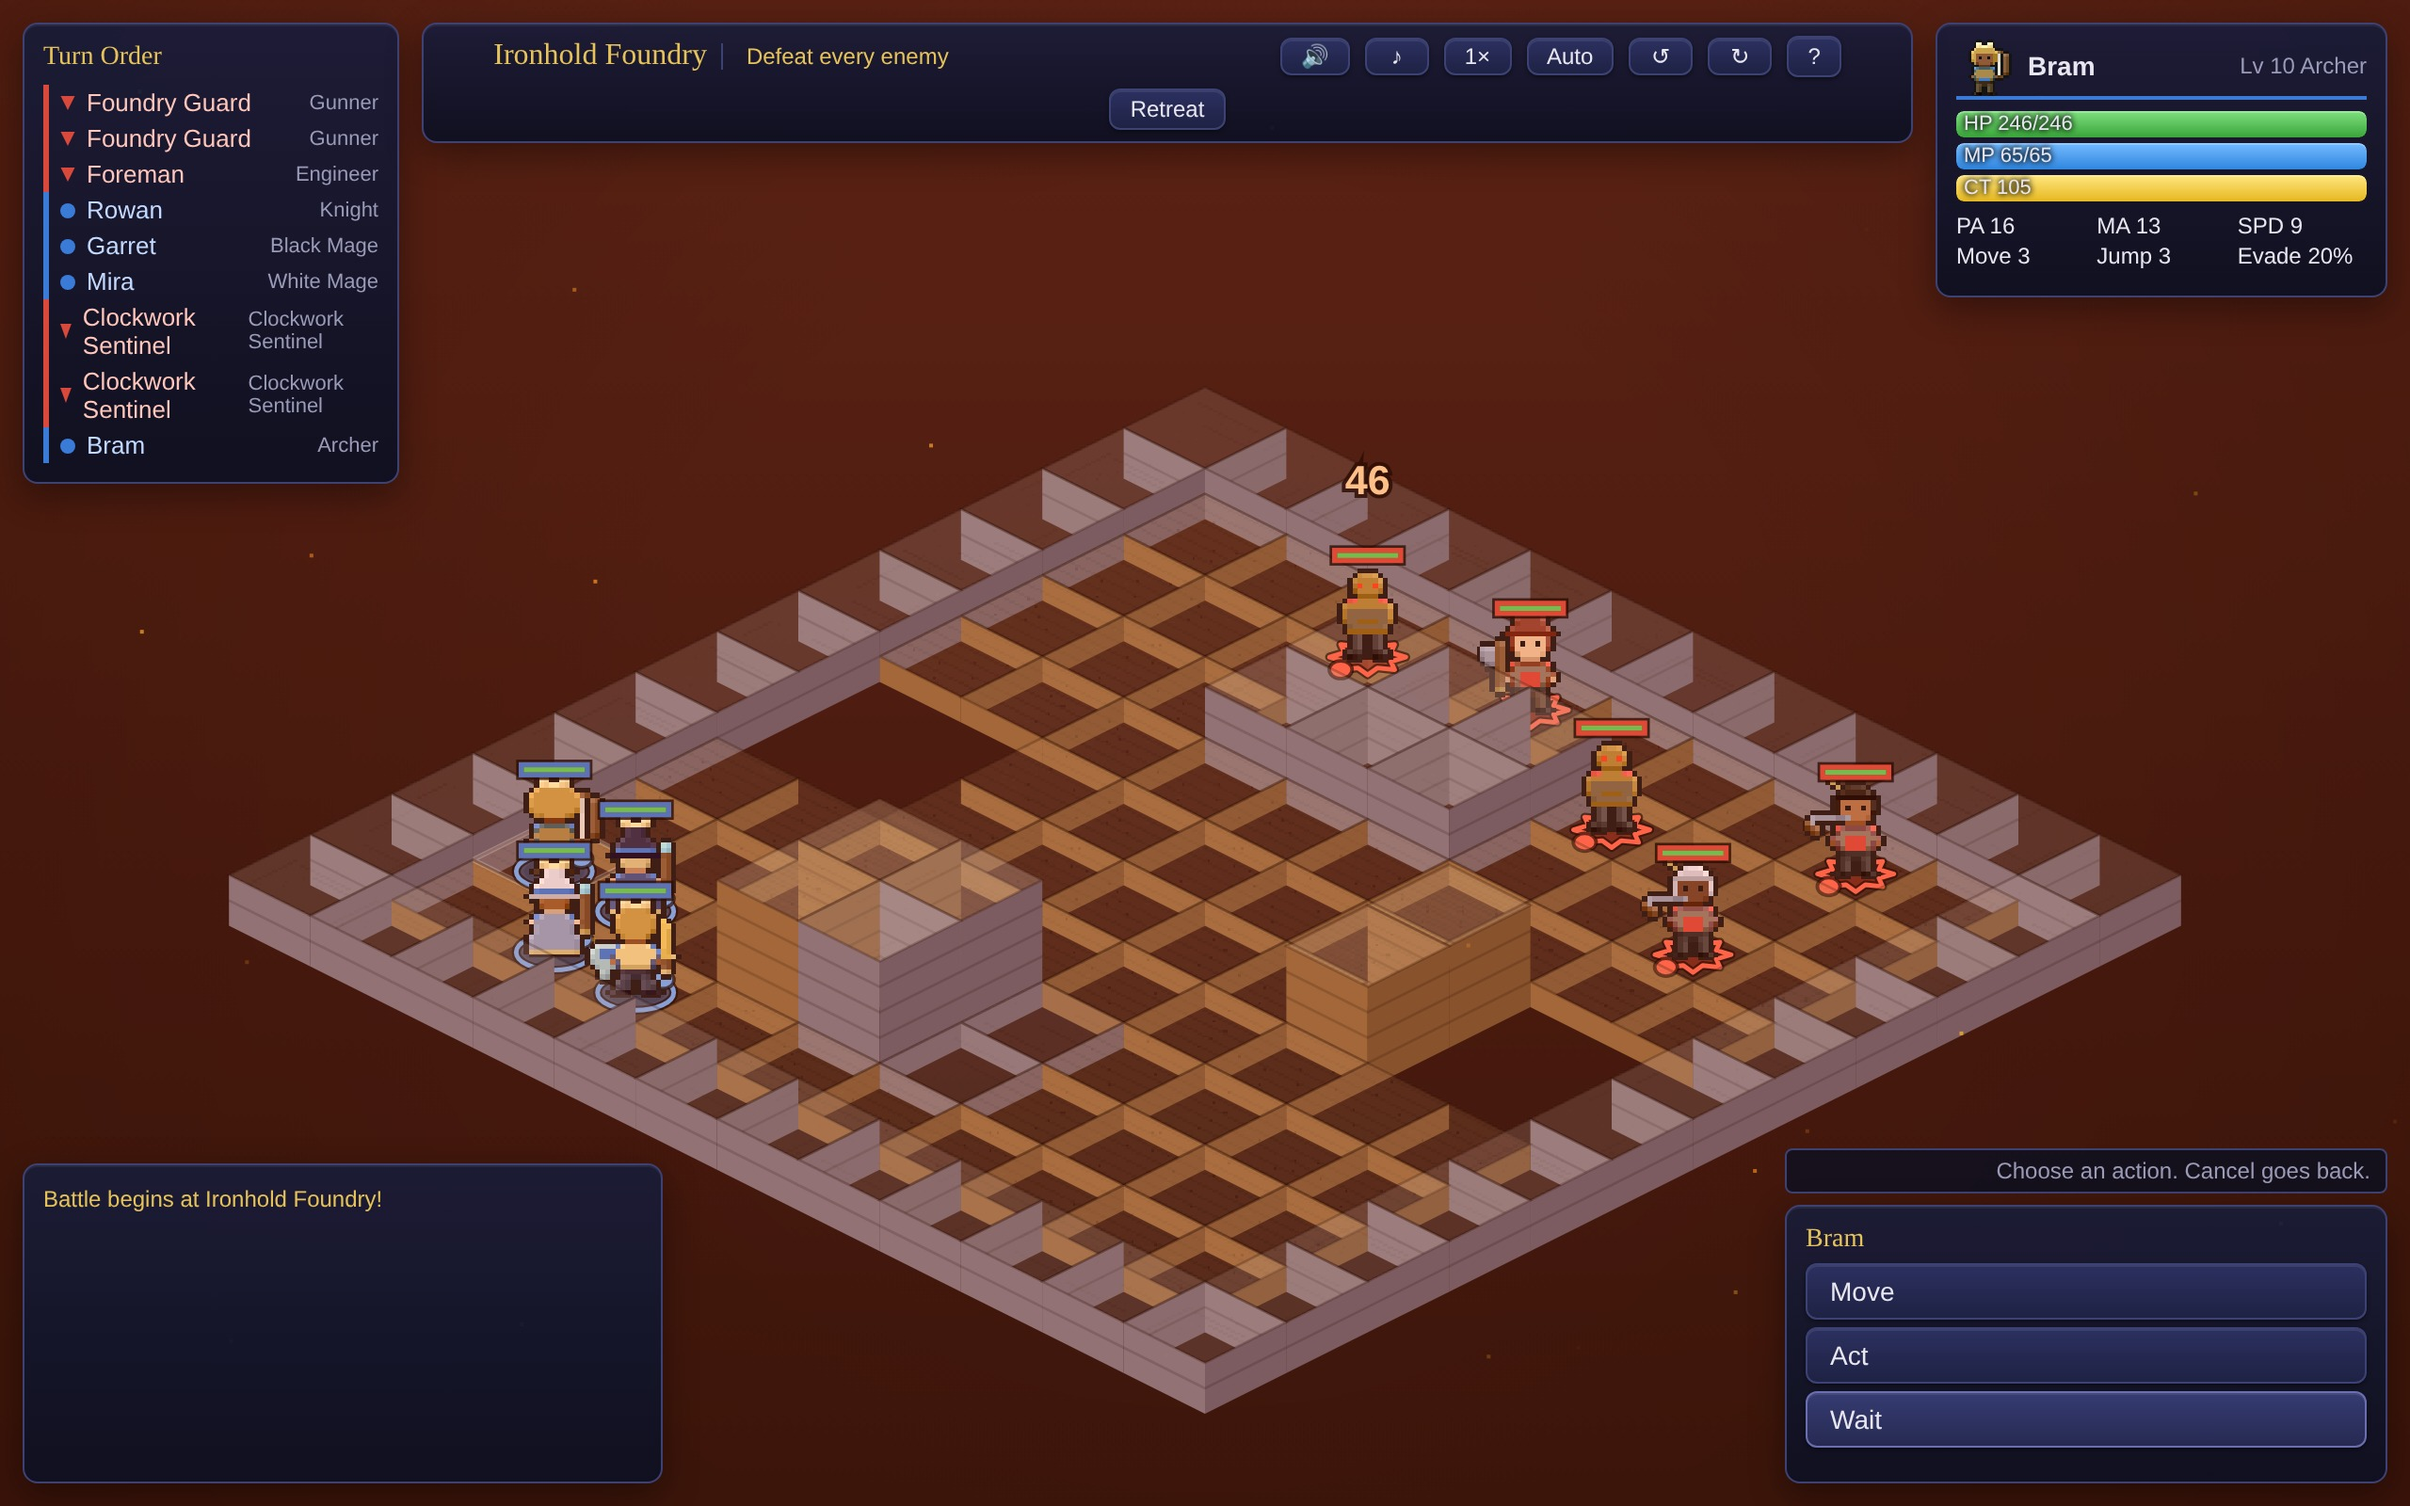
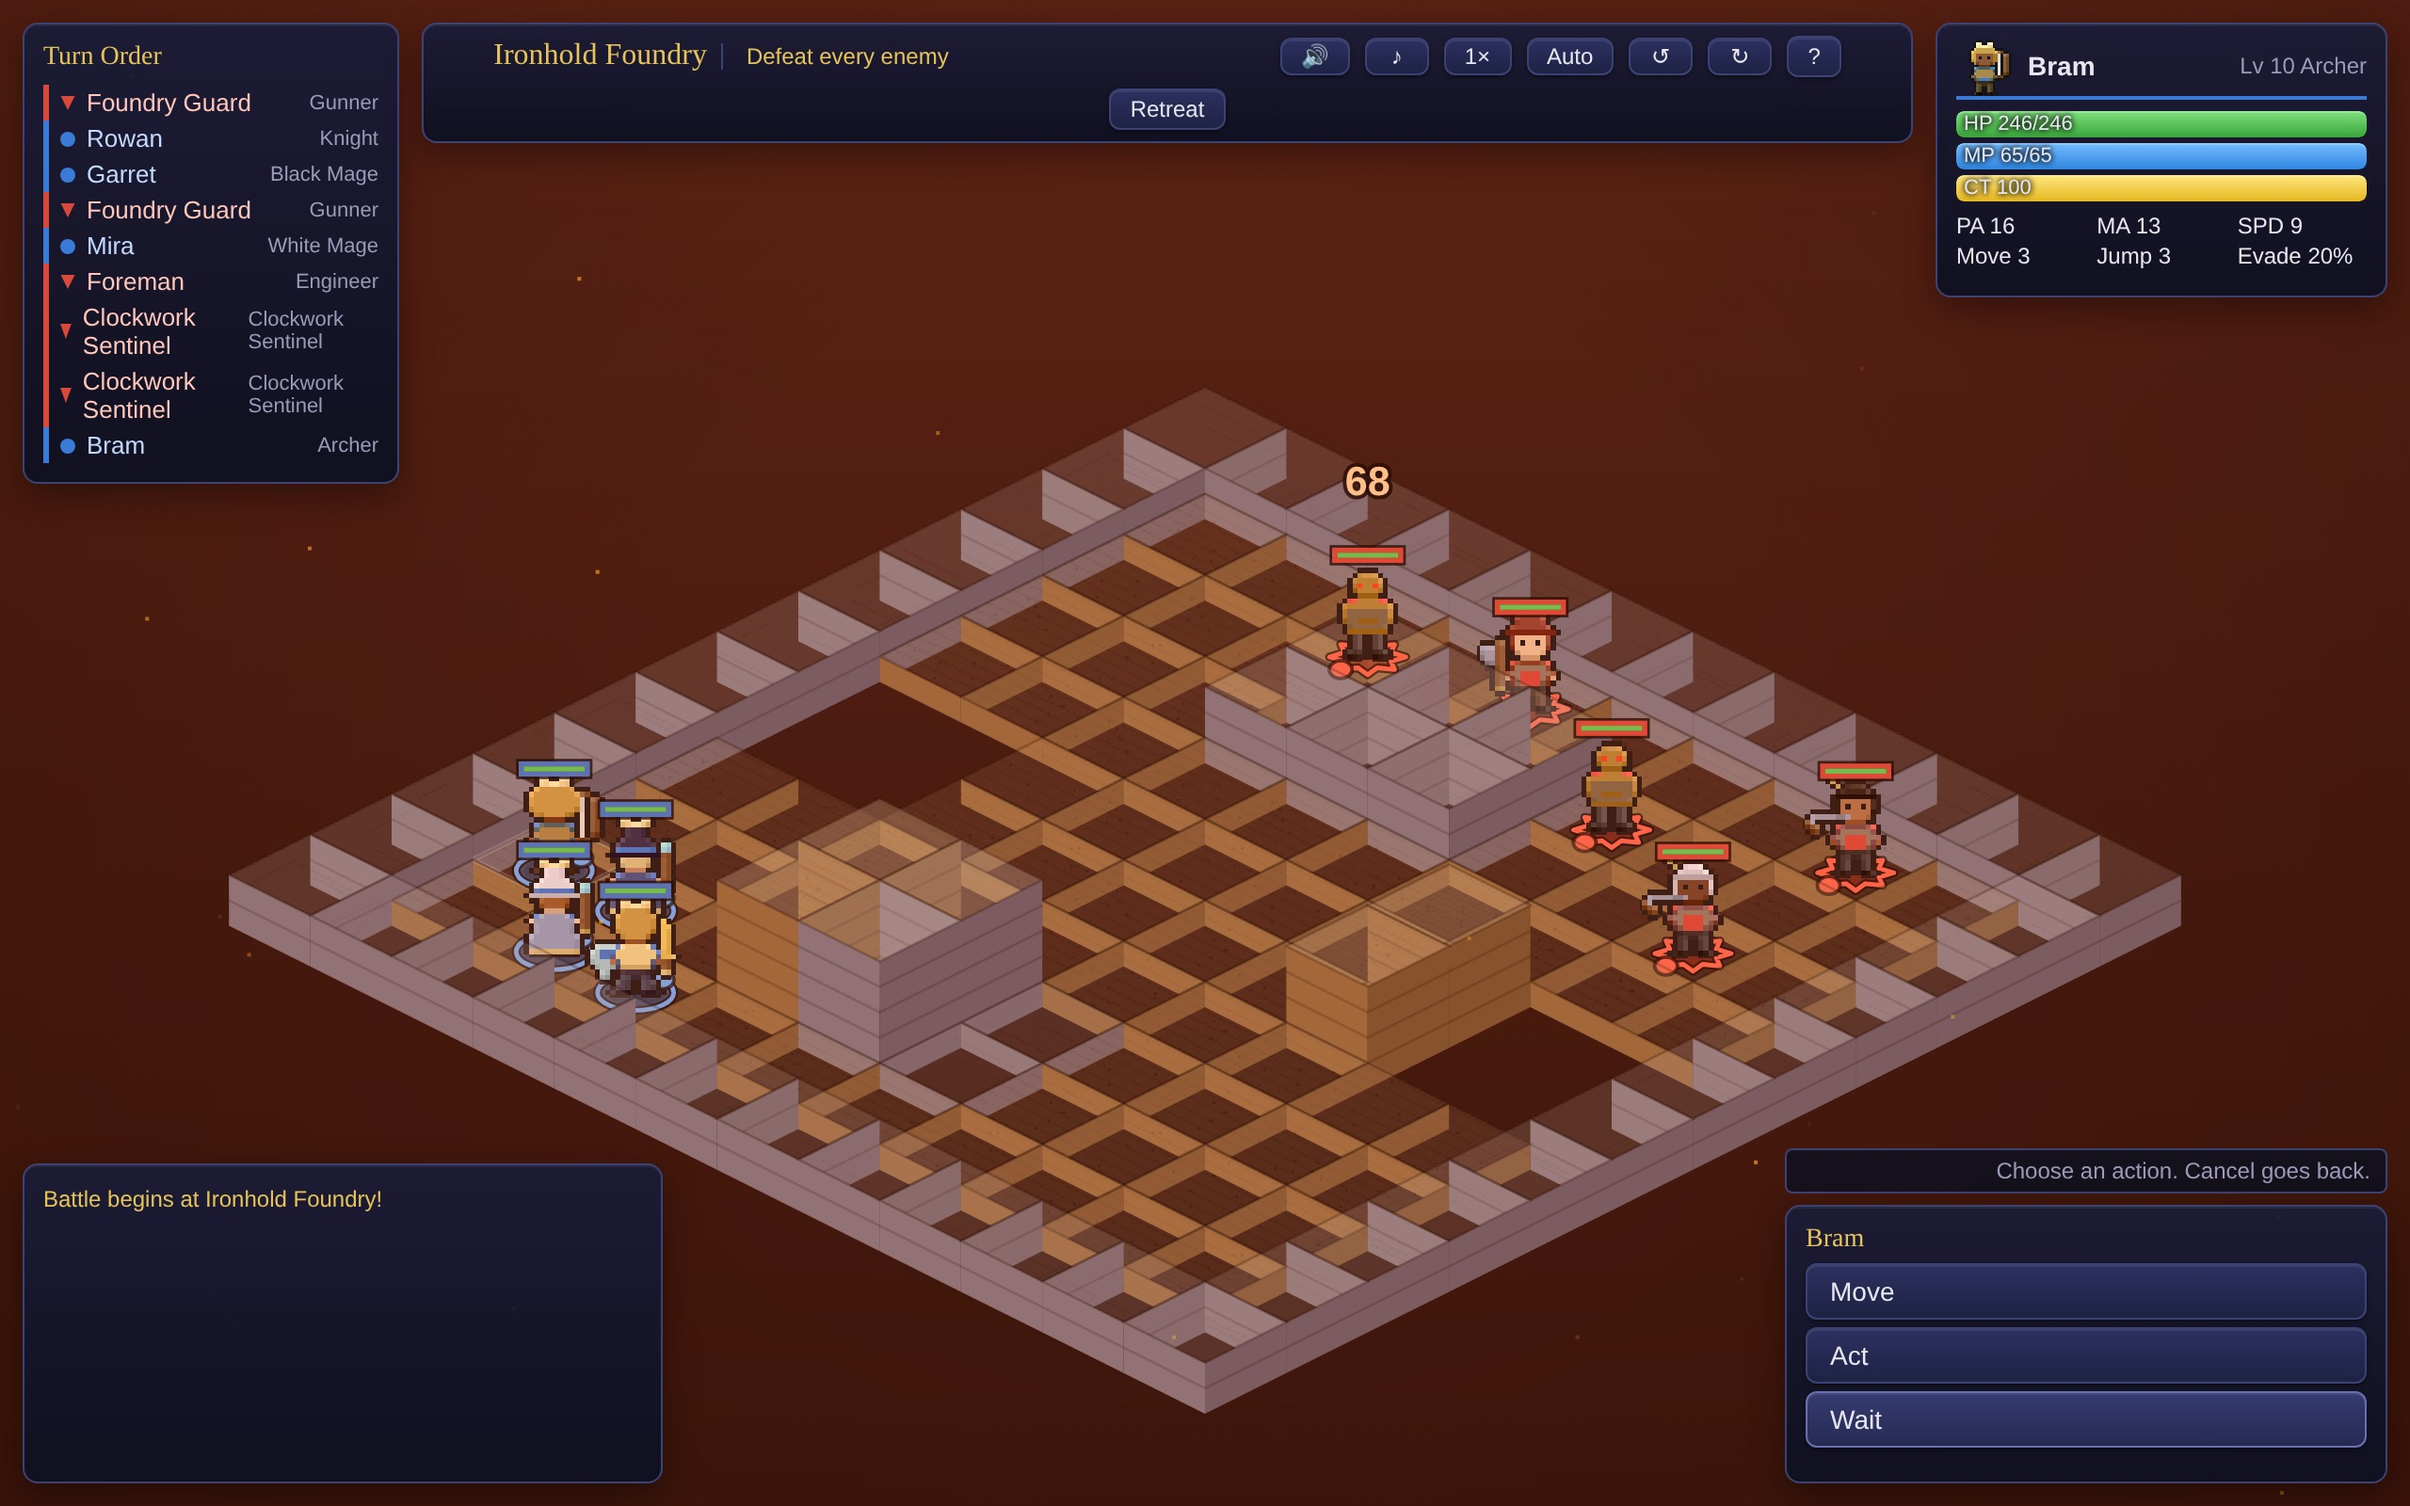
Store kit: the target in the open, realm names kept clear, a privacy policy that names every setting (1.8.1)
The attack screenshot showed the party in a knot with the target hidden
behind it. The foe now stands on the free tile nearest the viewer, the
rest of the company steps back a row, and the camera comes in closer, so
the two figures and the forecast are the picture.

On a phone the realm map's names ran into one another where the road
turns back on itself; "Thornwall Cathedral" was written across
"Redwater". A name that would have to sit on another is now left off:
the stop's number still says which it is, and the road card names it on
a tap. The next chapter's name and the cities are always drawn.

The privacy policy said one saved game that a new game overwrites, and
two preferences. It now says what is kept: up to three saved games, the
sound and music levels, the battle speed, the language, the camp page and
the guide flag; that a save code leaves the device only by the player's
hand; and that Delete in Load Game removes one slot. The listing points
at the policy as a web page, which is what Play asks for, rather than a
file in the repository.

The promo video is rerecorded on the new look (not kept in the repository).

Version 1.8.1; store shots reshot.

Claude-Session: https://claude.ai/code/session_015rBMt2mMzvqJ2PGqK7HNCX

diff --git a/js/game.js b/js/game.js
@@ -13,7 +13,7 @@ const COACH_KEY = 'elderon.coached';
 // a chat message, an email or a paste into a notes app.
 const CODE_TAG = 'ELDERON1.';
 // Shown in the credits; tools/regress.js keeps it equal to package.json's.
-const GAME_VERSION = '1.8.0';
+const GAME_VERSION = '1.8.1';
 // Where each chapter sits on the map of the realm, as fractions of the canvas.
 // Twelve stops: Act I runs east along the lower road, Act II turns back west
 // along the coast above it, so the two never cross on the parchment.
@@ -1667,7 +1667,7 @@ class Game {
     // important names are placed first and get the best spots.
     const labels = [];
     const overlap = (r) => obstacles.reduce((sum, o) => sum + Math.max(0, Math.min(r.x + r.w, o.x + o.w) - Math.max(r.x, o.x)) * Math.max(0, Math.min(r.y + r.h, o.y + o.h) - Math.max(r.y, o.y)), 0);
-    const place = (text, x, y, font, size, color, r) => {
+    const place = (text, x, y, font, size, color, r, optional) => {
       c.font = font;
       const w = c.measureText(text).width + 4, h = size + 3;
       const spots = [
@@ -1676,6 +1676,9 @@ class Game {
       ].map(([sx, sy]) => ({ x: Math.max(2, Math.min(W - w - 2, sx)), y: Math.max(2, Math.min(H - h - 2, sy)), w, h }));
       let best = null, bestArea = Infinity;
       for (const sp of spots) { const a = overlap(sp); if (a < bestArea) { best = sp; bestArea = a; } if (a === 0) break; }
+      // A name that would have to sit on another is left off: the stop's
+      // number still says which it is, and the road card names it on a tap.
+      if (optional && bestArea > 0) return;
       obstacles.push(best);
       labels.push({ text, font, color, x: best.x + 2, y: best.y + size });
     };
@@ -1692,9 +1695,9 @@ class Game {
     stopsAll.forEach(({ i, ch, p }) => {
       if (i === nextI) return;
       const done = i < nextI;
-      place(done ? MAPS[ch.map].name : '?', p.x, p.y, nameFont, nameSize, done ? '#e6e6f0' : 'rgba(230,230,240,0.35)', 10);
+      place(done ? MAPS[ch.map].name : '?', p.x, p.y, nameFont, nameSize, done ? '#e6e6f0' : 'rgba(230,230,240,0.35)', 10, true);
     });
-    if (!chosen) for (const sp of spurs) { const q = sp.stops[1]; place(forkOpen ? ROADS[sp.id].title : '?', q.x, q.y, nameFont, nameSize, forkOpen ? 'rgba(230,230,240,0.55)' : 'rgba(230,230,240,0.25)', 6); }
+    if (!chosen) for (const sp of spurs) { const q = sp.stops[1]; place(forkOpen ? ROADS[sp.id].title : '?', q.x, q.y, nameFont, nameSize, forkOpen ? 'rgba(230,230,240,0.55)' : 'rgba(230,230,240,0.25)', 6, true); }
     c.textAlign = 'left'; c.textBaseline = 'alphabetic'; c.lineJoin = 'round';
     for (const l of labels) {
       c.font = l.font; c.lineWidth = 3; c.strokeStyle = 'rgba(15,14,26,0.85)'; c.strokeText(l.text, l.x, l.y);

diff --git a/privacy.html b/privacy.html
@@ -17,7 +17,7 @@
 <body>
 <main>
   <h1>Privacy Policy</h1>
-  <small>Chronicles of Elderon · last updated 20 September 2026</small>
+  <small>Chronicles of Elderon · last updated 30 September 2026</small>
 
   <p>Chronicles of Elderon is a single-player game. This policy exists because
   Google Play asks every app to have one, and it is short because there is
@@ -30,13 +30,19 @@
   anywhere even if it wanted to.</p>
 
   <h2>What the game stores</h2>
-  <p>Your saved game and two audio preferences (sound on or off, music on or
-  off). They are kept in the app's private storage on your own device, and only
-  there. The Android app opts out of Android's automatic backup entirely, so a
-  saved game never leaves the device this way either, including when the
-  device itself is backed up or replaced.</p>
-  <p>Uninstalling the app deletes the saved game. Inside the game, starting a
-  new game overwrites it.</p>
+  <p>Your saved games, up to three, and your settings: the sound and music
+  levels, the battle speed, the language, which page of the camp you were on,
+  and whether the first chapter's guide has been shown. They are kept in the
+  app's private storage on your own device, and only there. The Android app
+  opts out of Android's automatic backup entirely, so a saved game never
+  leaves the device this way either, including when the device itself is
+  backed up or replaced.</p>
+  <p>A save code is the one way a game leaves the device, and only by your hand:
+  Load Game → Export turns a slot into a block of text that you can copy,
+  share or save as a file yourself, and Import a save code reads one in. The
+  game never sends a code anywhere.</p>
+  <p>Uninstalling the app deletes the saved games. Inside the game, Delete in
+  Load Game deletes one slot.</p>
 
   <h2>Children</h2>
   <p>The game does not knowingly collect any information from anyone, children

diff --git a/tools/make-store.js b/tools/make-store.js
@@ -122,8 +122,15 @@ async function attackPreview(page) {
   await page.evaluate(async () => {
     const b = game.battle, u = game.ui.turn.unit;
     const foe = b.units.filter(x => x.team === 'enemy' && x.alive && x.x >= 0)[0];
-    const spot = [[1, 0], [0, 1], [-1, 0], [0, -1]].map(([dx, dy]) => b.grid.tile(u.x + dx, u.y + dy)).find(t => t && t.t !== 'x' && t.t !== 'w' && t.t !== 't' && !b.unitAt(t.x, t.y));
+    // Of the free neighbouring tiles, the one lowest on screen is nearest
+    // the viewer: the foe stands in front of the company, not behind it.
+    const spots = [[1, 0], [0, 1], [-1, 0], [0, -1]].map(([dx, dy]) => b.grid.tile(u.x + dx, u.y + dy)).filter(t => t && t.t !== 'x' && t.t !== 'w' && t.t !== 't' && !b.unitAt(t.x, t.y));
+    const spot = spots.sort((p, q) => game.renderer.toScreen(q.x, q.y, q.h).sy - game.renderer.toScreen(p.x, p.y, p.h).sy)[0];
     if (spot) { foe.x = spot.x; foe.y = spot.y; foe.facing = facingFromDelta(spot.x - u.x, spot.y - u.y); }
+    // Everyone else steps back a row, so the two of them stand clear.
+    for (const m of b.units) if (m.team === 'player' && m !== u && m.x >= 0) { const back = [[0, -1], [-1, 0], [0, -2], [-1, -1]].map(([dx, dy]) => b.grid.tile(m.x + dx, m.y + dy)).find(t => t && t.t !== 'x' && t.t !== 'w' && !b.unitAt(t.x, t.y) && (t.x !== spot.x || t.y !== spot.y)); if (back) { m.x = back.x; m.y = back.y; } }
+    // Closer in: the two figures and the forecast are the picture.
+    game.renderer.zoom = Math.min(1.7, game.renderer.zoom * 1.4);
     await game.renderer.focus(u, 0);
   });
   await page.click('#action-menu button[data-a="act"]');

diff --git a/sw.js b/sw.js
@@ -8,7 +8,7 @@
    old cache is deleted only when the new one is complete, so a player never
    runs half of one build and half of another. The page is told when a new
    build is waiting and asks before switching to it. */
-const VERSION = 'ef90a83f29';
+const VERSION = '73658d3bc2';
 const CACHE = 'elderon-' + VERSION;
 
 const ASSETS = [

diff --git a/PRIVACY.md b/PRIVACY.md
@@ -1,6 +1,6 @@
 # Privacy Policy — Chronicles of Elderon
 
-*Last updated: 20 September 2026*
+*Last updated: 30 September 2026*
 
 Chronicles of Elderon is a single-player game. This policy exists because
 Google Play asks every app to have one, and it is short because there is
@@ -15,14 +15,21 @@ anywhere even if it wanted to.
 
 ## What the game stores
 
-Your saved game and two audio preferences (sound on or off, music on or off).
-They are kept in the app's private storage on your own device, and only there.
-The Android app opts out of Android's automatic backup entirely, so a saved
-game never leaves the device this way either, including when the device
-itself is backed up or replaced.
+Your saved games, up to three, and your settings: the sound and music
+levels, the battle speed, the language, which page of the camp you were on,
+and whether the first chapter's guide has been shown. They are kept in the
+app's private storage on your own device, and only there. The Android app
+opts out of Android's automatic backup entirely, so a saved game never
+leaves the device this way either, including when the device itself is
+backed up or replaced.
 
-Uninstalling the app deletes the saved game. Inside the game, starting a new
-game overwrites it.
+A save code is the one way a game leaves the device, and only by your hand:
+Load Game → Export turns a slot into a block of text that you can copy,
+share or save as a file yourself, and Import a save code reads one in. The
+game never sends a code anywhere.
+
+Uninstalling the app deletes the saved games. Inside the game, Delete in
+Load Game deletes one slot.
 
 ## Children
 

diff --git a/store/LISTING.md b/store/LISTING.md
@@ -82,9 +82,10 @@ below is maintained by hand. Character limits are Play's.
 **App category**: Game → Strategy
 **Tags**: Tactical RPG, Turn-based strategy, Single player, Offline
 **Contact email**: your address (Play shows it publicly)
-**Privacy policy URL**: a public copy of `PRIVACY.md` / `privacy.html`
-from this repository, for instance
-`https://github.com/taugustincst/is/blob/main/PRIVACY.md`
+**Privacy policy URL**: the game's own page, served with the web build:
+`https://taugustincst.github.io/fftremake/privacy.html` (or the `is`
+repository's Pages address once it is enabled). Play wants a plain web page,
+not a file inside a repository.
 
 ## Store listing in other languages
 
@@ -450,6 +451,12 @@ health features. **News**: not a news app.
 **Advertising ID**: the app does not use the advertising ID.
 
 ## Release notes
+
+**1.8.1**
+
+    Store kit: the attack screenshot shows its target in the open, the realm map keeps names
+    clear of one another on a phone, the privacy policy names every setting the game keeps,
+    and the promo video is rerecorded on the new look.
 
 **1.8.0**
 

diff --git a/android/PLAY_STORE.md b/android/PLAY_STORE.md
@@ -120,7 +120,7 @@ between releases.
 
 `.github/workflows/release.yml` builds an APK on GitHub's runners and
 attaches it, with the single-file web build, to a GitHub Release: run it
-from the Actions tab with a version number, or push a tag like `v1.8.0`.
+from the Actions tab with a version number, or push a tag like `v1.8.1`.
 That APK is signed with the debug key, so it sideloads onto any phone but
 is not what Play accepts; the Play bundle still comes from step 3, on a
 machine that holds the upload key.

diff --git a/README.md b/README.md
@@ -21,7 +21,7 @@ a browser, or serve the folder with any static file server.
   described in `android/PLAY_STORE.md`). The same release carries the whole
   game as a single `.html` file. Releases are cut by
   `.github/workflows/release.yml`: run it from the Actions tab with a version
-  number, or push a tag such as `v1.8.0`.
+  number, or push a tag such as `v1.8.1`.
 
 ## The game
 
